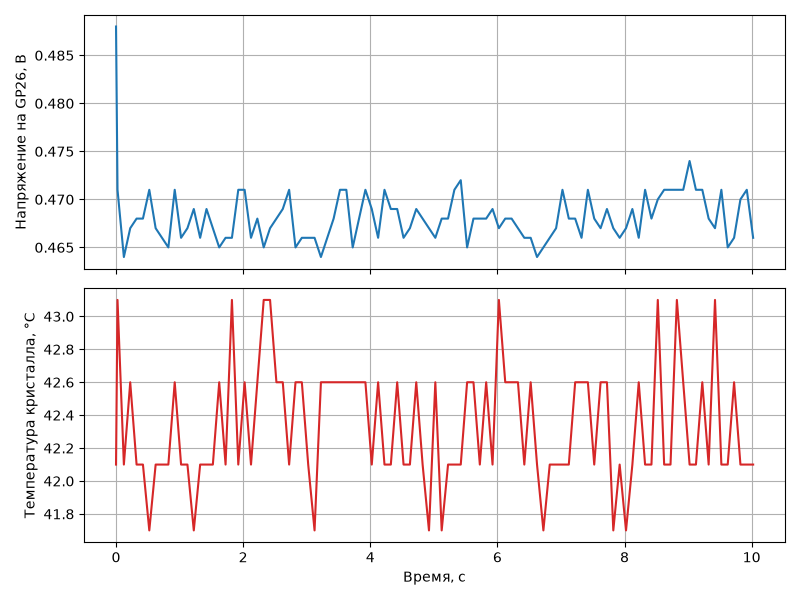
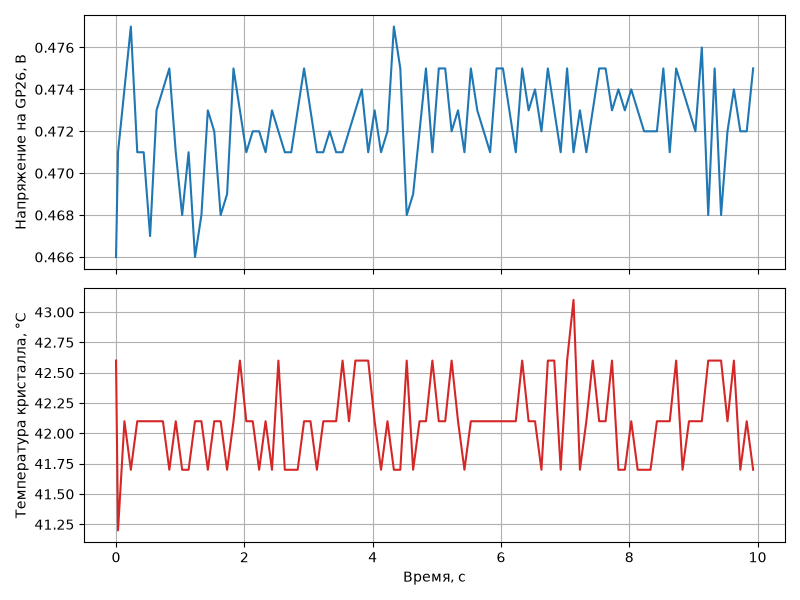
3.1.4 (2)

diff --git a/311-adc/logic/telemetry-task/telemetry-task.c b/311-adc/logic/telemetry-task/telemetry-task.c
@@ -35,6 +35,7 @@ bool telemetry_task_start(uint32_t period_ms)
 {
     if (period_ms >= 10)
     {
+        telemetry_last_us = 0;
         telemetry_period_ms = period_ms;
         telemetry_state = TELEMETRY_STATE_RUN;
         return true;
